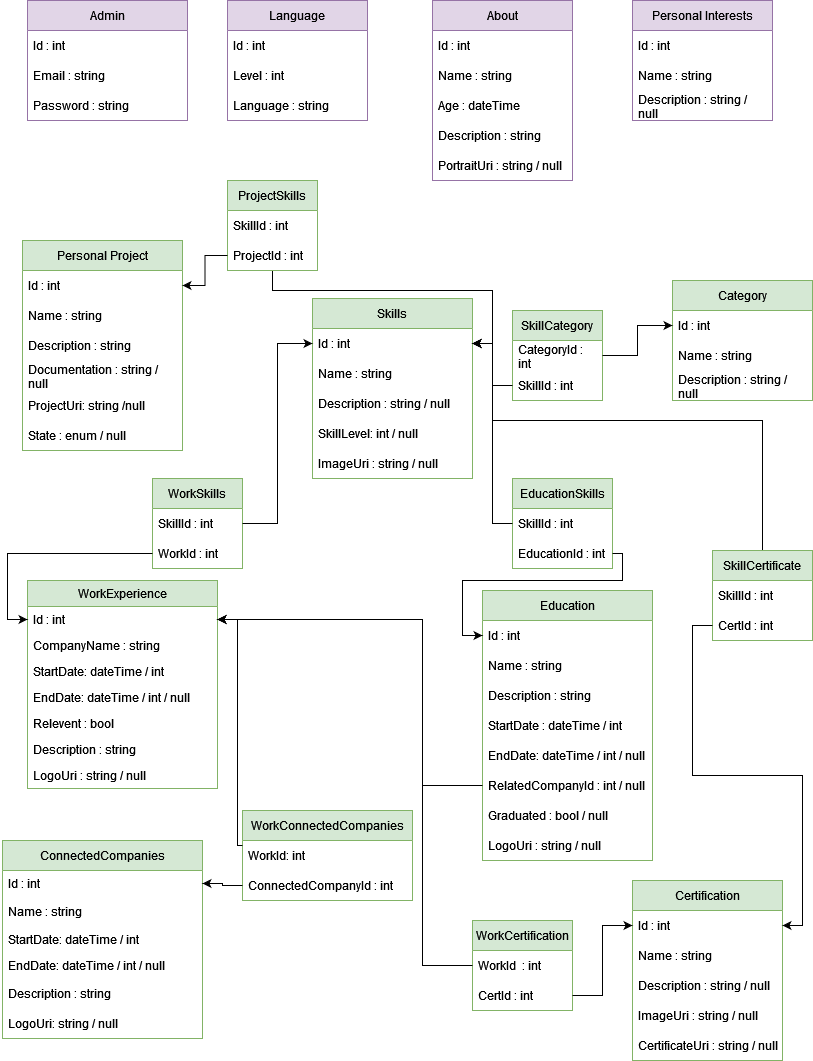
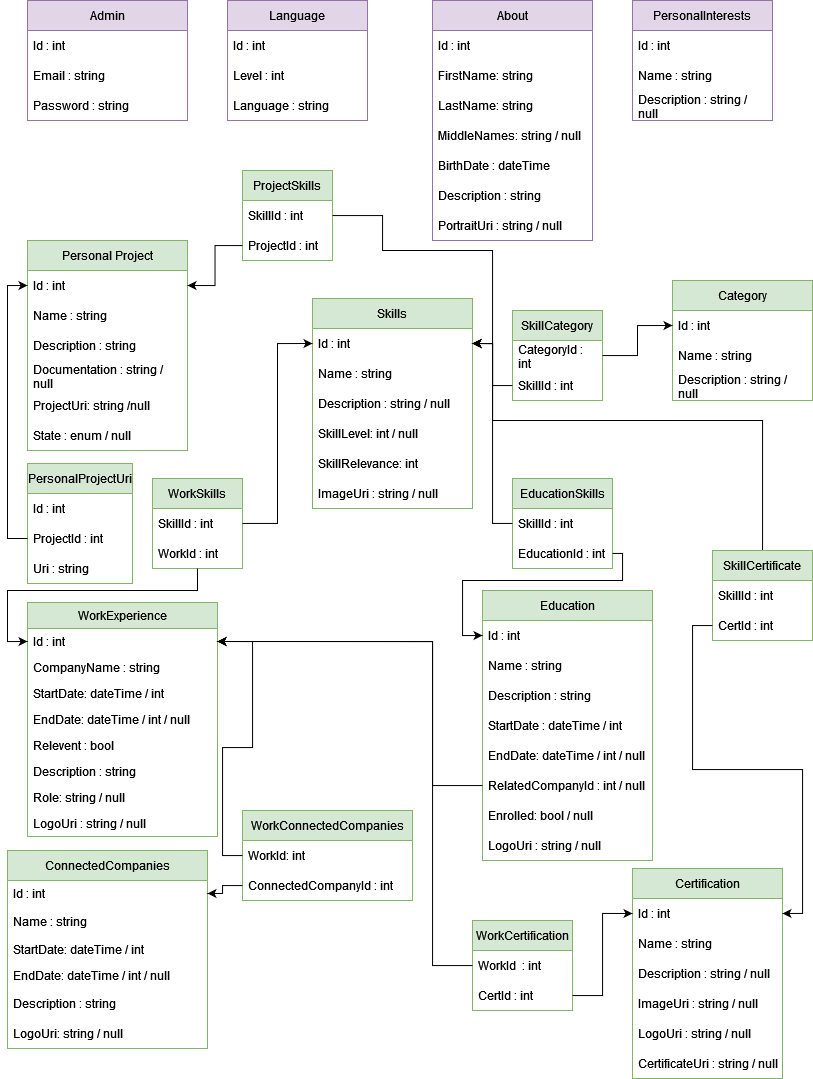
addded all entities, my fingers now hurt ;-;

diff --git a/Backend/Backend.API/Entities/SkillEntity.cs b/Backend/Backend.API/Entities/SkillEntity.cs
@@ -1,0 +1,51 @@
+using Backend.API.AbstractClasses;
+using Backend.API.Enums;
+
+namespace Backend.API.Entities;
+/// <summary>
+/// Aquired skill
+/// <example>Examples of things to add as a skill are if you've learned a new programming language or to do backflips</example>
+/// </summary>
+public class SkillEntity : BaseEntity
+{
+    /// <summary>
+    /// Optional description of skill
+    /// </summary>
+    public string? Description { get; set; }
+    /// <summary>
+    /// How good you are at the skill, using a <c>SkillLevel</c> <c>Enum</c>
+    /// </summary>
+    public SkillLevel? SkillLevel { get; set; }
+    /// <summary>
+    /// How relevent the skill are and therefore how prioritized it being shown should be
+    /// </summary>
+    public SkillRelevance SkillRelevance { get; set; }
+    /// <summary>
+    /// Logo to use for skill, either remote uri or local
+    /// <example>If you know python, you might want to use pythons logo for the skill</example>
+    /// </summary>
+    public string? LodoUri { get; set; }
+
+    #region Foreign entities
+    /// <summary>
+    /// Associated Personal projects
+    /// </summary>
+    public ICollection<PersonalProjectEntity>? PersonalProjects { get; set; }
+    /// <summary>
+    /// Associated work places
+    /// </summary>
+    public ICollection<WorkEntity>? WorkPlaces { get; set; }
+    /// <summary>
+    /// Associated Categories
+    /// </summary>
+    public ICollection<CategoryEntity>? Categories { get; set; }
+    /// <summary>
+    /// Associated Educations
+    /// </summary>
+    public ICollection<EducationEntity>? Educations { get; set; }
+    /// <summary>
+    /// Associated Certifications
+    /// </summary>
+    public ICollection<CertificationEntity>? Certifications { get; set; }
+    #endregion
+}

diff --git a/Backend/Backend.API/Entities/PersonalProjectEntity.cs b/Backend/Backend.API/Entities/PersonalProjectEntity.cs
@@ -1,0 +1,31 @@
+using Backend.API.AbstractClasses;
+using Backend.API.Enums;
+
+namespace Backend.API.Entities;
+/// <summary>
+/// Explains a personal project
+/// <example>If you make a website you can write about it here and showcase that project and skills associated with it</example>
+/// </summary>
+public class PersonalProjectEntity : BaseEntity
+{
+    /// <summary>
+    /// General description of the project
+    /// </summary>
+    public required string Description { get; set; }
+    /// <summary>
+    /// Indepth description/documentation of the project
+    /// </summary>
+    public string? Documentation { get; set; }
+    /// <summary>
+    /// In what status a project is using the <c>PersonalProjectStatus enum</c>
+    /// </summary>
+    public PersonalProjectStatus Status { get; set; }
+    /// <summary>
+    /// Collection of project uris like external sites project sites and so on
+    /// </summary>
+    public ICollection<PersonalProjectUriEntity>? ProjectUri { get; set; }
+    /// <summary>
+    /// Skills associated with the project
+    /// </summary>
+    public ICollection<SkillEntity>? AsociatedSkills { get; set; }
+}

diff --git a/Backend/Backend.API/Entities/WorkEntity.cs b/Backend/Backend.API/Entities/WorkEntity.cs
@@ -1,0 +1,34 @@
+using System.Runtime.CompilerServices;
+using Backend.API.AbstractClasses;
+
+namespace Backend.API.Entities;
+
+public class WorkEntity : BaseEntity
+{
+    //TODO: Check if DateOnly works or change to DateTime
+    /// <summary>
+    /// The date you started working at the company/started the company
+    /// </summary>
+    public DateOnly StartDate { get; set; }
+    /// <summary>
+    /// The date you stoped working at the company
+    /// </summary>
+    public DateOnly? EndDate { get; set; }
+    /// <summary>
+    /// Is this company/work relevant to the positions you are looking for? Then set this to true
+    /// </summary>
+    public bool Relavent { get; set; }
+    /// <summary>
+    /// Describe your work at the company
+    /// </summary>
+    public string Description { get; set; }
+    /// <summary>
+    /// Your official role at the company
+    /// </summary>
+    public string? Role { get; set; }
+    /// <summary>
+    /// Company logo uri. Can be remote or locally stored
+    /// </summary>
+    public string? LogoUri { get; set; }
+    public ICollection<SkillEntity>? AsociatedSkills { get; set; }
+}

diff --git a/Backend/Backend.API/Entities/ConnectedCompanyEntity.cs b/Backend/Backend.API/Entities/ConnectedCompanyEntity.cs
@@ -1,0 +1,31 @@
+using Backend.API.AbstractClasses;
+
+namespace Backend.API.Entities;
+
+/// <summary>
+/// Company connected to work, example is if you work as a consultant and hop between clients
+/// </summary>
+public class ConnectedCompanyEntity : BaseEntity
+{
+    //TODO: Check if DateOnly works or change to DateTime
+    /// <summary>
+    /// The date you started working at the company/started the company
+    /// </summary>
+    public DateOnly StartDate { get; set; }
+    /// <summary>
+    /// The date you stoped working at the company
+    /// </summary>
+    public DateOnly? EndDate { get; set; }
+    /// <summary>
+    /// Describe your work at the company
+    /// </summary>
+    public string Description { get; set; }
+    /// <summary>
+    /// Your official role at the company
+    /// </summary>
+    public string? Role { get; set; }
+    /// <summary>
+    /// Company logo uri. Can be remote or locally stored
+    /// </summary>
+    public string? LogoUri { get; set; }
+}

diff --git a/Backend/Backend.API/Entities/EducationEntity.cs b/Backend/Backend.API/Entities/EducationEntity.cs
@@ -1,0 +1,31 @@
+using Backend.API.AbstractClasses;
+
+namespace Backend.API.Entities;
+
+public class EducationEntity : BaseEntity
+{
+    public string Description { get; set; }
+    
+    //TODO:Make sure DateOnly works or change to DateTime
+    /// <summary>
+    /// When you started your education
+    /// </summary>
+    public DateOnly StartDate { get; set; }
+    /// <summary>
+    /// Estimated graduation date or the date you graduated/stopped the education
+    /// </summary>
+    public DateOnly? EndDate { get; set; }
+    /// <summary>
+    /// Is <c>True</c> if you are enrolled. False if you have graduated
+    /// </summary>
+    public bool? Enrolled { get; set; }
+    /// <summary>
+    /// local or remote logo for the education
+    /// </summary>
+    public string? LogoUri { get; set; }
+    /// <summary>
+    /// Skills associated with the education
+    /// </summary>
+    public ICollection<SkillEntity>? AsociatedSkills { get; set; }
+
+}

diff --git a/Backend/Backend.API/Entities/CertificationEntity.cs b/Backend/Backend.API/Entities/CertificationEntity.cs
@@ -1,0 +1,29 @@
+using Backend.API.AbstractClasses;
+
+namespace Backend.API.Entities;
+
+public class CertificationEntity : BaseEntity
+{
+    /// <summary>
+    /// DEscription of certificate
+    /// </summary>
+    public string? Description { get; set; }
+    /// <summary>
+    /// Image of the certification
+    /// </summary>
+    public string? ImageUri { get; set; }
+    /// <summary>
+    /// If you want to use a logo image for your certification
+    /// <example>If you have a certification from CodeCademy you might want to use their logo</example>
+    /// </summary>
+    public string? LogoUri { get; set; }
+    /// <summary>
+    /// Exrternal Certification site, some sites provide certification links
+    /// </summary>
+    public string? CertificationUrl { get; set; }
+    /// <summary>
+    /// Skills associated with the certification
+    /// </summary>
+    public ICollection<SkillEntity>? AsociatedSkills { get; set; }
+
+}

diff --git a/Backend/Backend.API/Entities/CategoryEntity.cs b/Backend/Backend.API/Entities/CategoryEntity.cs
@@ -1,0 +1,14 @@
+using Backend.API.AbstractClasses;
+
+namespace Backend.API.Entities;
+
+/// <summary>
+/// optional category entity for grouping diffirent things together
+/// <example>If you have programming skills you might want them to be under the programming category and so on</example>
+/// </summary>
+public class CategoryEntity : BaseEntity
+{
+    //TODO: if implemented, flesh it out or remove categories depending on how far i get
+    public string? Description { get; set; }
+    public ICollection<SkillEntity>? AsociatedSkills { get; set; }
+}

diff --git a/Backend/Backend.API/Enums/SkillRelevance.cs b/Backend/Backend.API/Enums/SkillRelevance.cs
@@ -1,0 +1,14 @@
+namespace Backend.API.Enums;
+/// <summary>
+/// How relevent the skill is to you as a user
+/// <example>If you are a programmer a programming skill should be high your singing skills should be low</example>
+/// </summary>
+public enum SkillRelevance
+{
+    //TODO: Check naming
+    Irrelevant,
+    Low,
+    Medium,
+    High,
+    TopSkill
+}

diff --git a/Backend/Backend.API/Entities/PersonalProjectUriEntity.cs b/Backend/Backend.API/Entities/PersonalProjectUriEntity.cs
@@ -1,0 +1,11 @@
+using System.ComponentModel.DataAnnotations.Schema;
+using Backend.API.Entities.Interface;
+
+namespace Backend.API.Entities;
+
+public class PersonalProjectUriEntity : IEntity
+{
+    public Guid Id { get; set; }
+    public required string Uri { get; set; }
+    public required PersonalProjectEntity PersonalProjectEntityId {get; set; }
+}

diff --git a/Backend/Backend.API/Enums/LanguageLevel.cs b/Backend/Backend.API/Enums/LanguageLevel.cs
@@ -1,9 +1,12 @@
 namespace Backend.API.Enums;
-
+/// <summary>
+/// How good you are at the language
+/// </summary>
 public enum LanguageLevel
 {
-    Beginner = 1,
-    Intermediate = 2,
-    Professional = 3,
-    Fluent = 4
+    Beginner,
+    Intermediate,
+    Professional,
+    Fluent,
+    Native
 }

diff --git a/Backend/Backend.API/Enums/SkillLevel.cs b/Backend/Backend.API/Enums/SkillLevel.cs
@@ -1,0 +1,13 @@
+namespace Backend.API.Enums;
+
+/// <summary>
+/// Represents how good you are at a skill
+/// </summary>
+public enum SkillLevel
+{
+    //TODO: Check out other namings of skill levels based on other sites.
+    Beginner,
+    Intermediate,
+    Advanced,
+    Expert
+}

diff --git a/Backend/Backend.API/Enums/PersonalProjectStatus.cs b/Backend/Backend.API/Enums/PersonalProjectStatus.cs
@@ -1,0 +1,12 @@
+namespace Backend.API.Enums;
+
+/// <summary>
+/// Status for a project
+/// </summary>
+public enum PersonalProjectStatus
+{
+    Finished,
+    InProduction,
+    OnHold,
+    Abandoned,
+}
